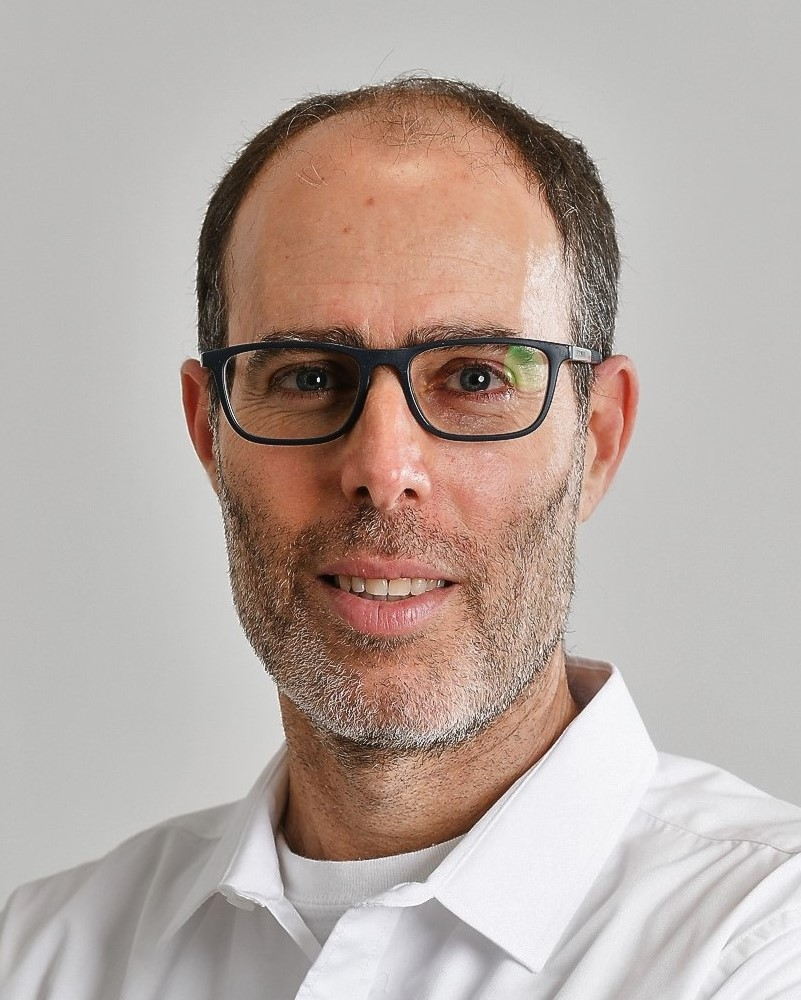
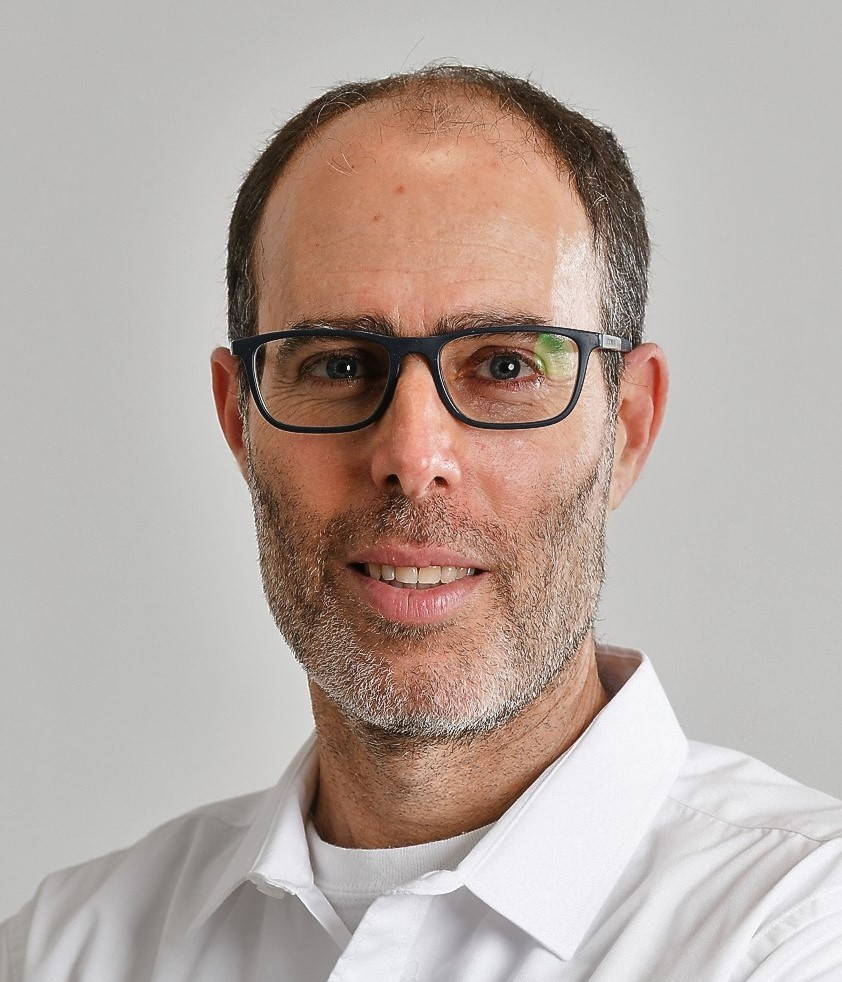
fix yaron image

diff --git a/src/pages/home/index.tsx b/src/pages/home/index.tsx
@@ -459,7 +459,7 @@ localStorage.setItem('direction',directionValue)
                                     <div className="image-flex">
                                         <div className="">
                                             <div style={{ textAlign: "center" }}>
-                                                <img src={mariano} className="personnel-image"  style={{width:'auto', height:187, borderRadius:70,}} />
+                                                <img src={mariano} className="personnel-image"  style={{width:'auto', height:165, borderRadius:80,}} />
                                                 <div className="about-desc"><Description data={`${t('mariano_description')}`} direction={directionValue} />
 
                                                 </div>
@@ -471,7 +471,7 @@ localStorage.setItem('direction',directionValue)
                                         </div>
 
                                         <div className="">
-                                            <div style={{ textAlign: "center" }}><img src={yaron} style={{width:'auto', height:187, borderRadius:70,}} className="personnel-image" />
+                                            <div style={{ textAlign: "center" }}><img src={yaron} style={{width:'auto', height:165, borderRadius:80,}} className="personnel-image" />
                                                 <div className="about-desc"><Description data={`${t('yaron_description')}`}  direction={directionValue}/></div>
                                                 <div className="about-name">
                                                     {t('yaron')}</div><div className="about-title">{t('yaron_title')}</div></div>
@@ -482,7 +482,7 @@ localStorage.setItem('direction',directionValue)
     width: 174px;
     height: 210px; */}
                                         <div className="">
-                                            <div style={{ textAlign: "center" }}><img src={ron} className="personnel-image"  style={{width:'auto', height:187, borderRadius:70,}}/>
+                                            <div style={{ textAlign: "center" }}><img src={ron} className="personnel-image"  style={{width:'auto', height:165, borderRadius:80,}}/>
                                                 <div className="about-desc"><Description data={`${t('ron_description')}`}  direction={directionValue}/></div>
                                                 <div className="about-name">
                                                     {t('ron')}</div><div className="about-title">{t('ron_title')}</div></div>
